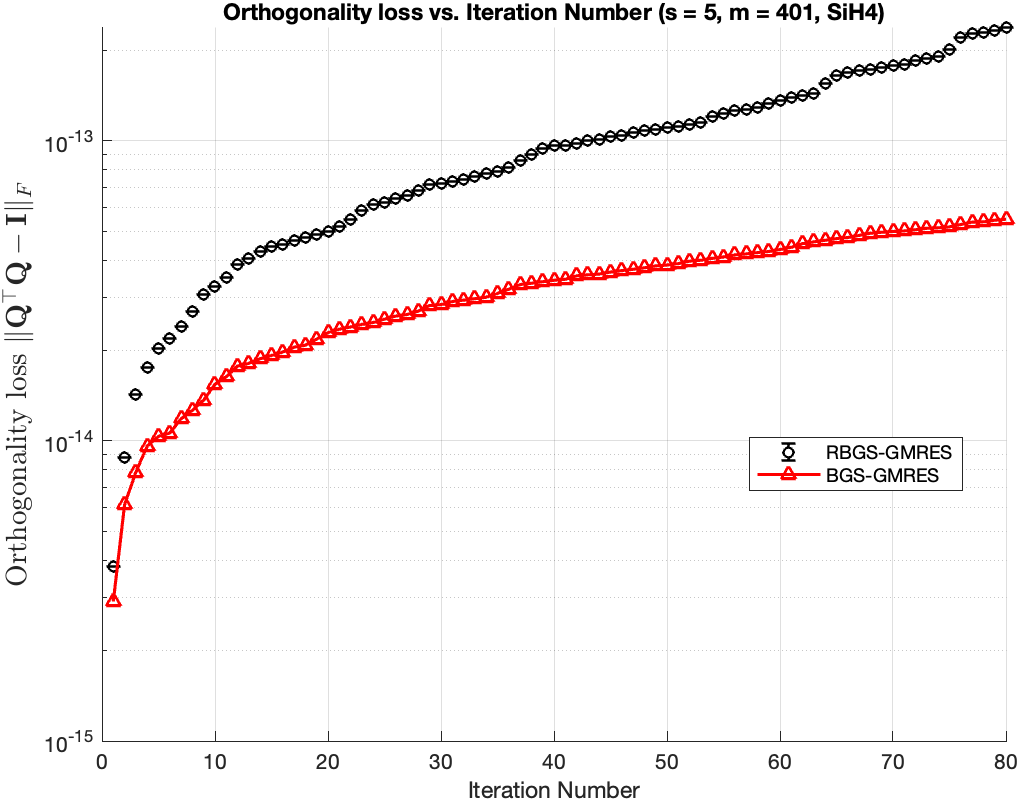
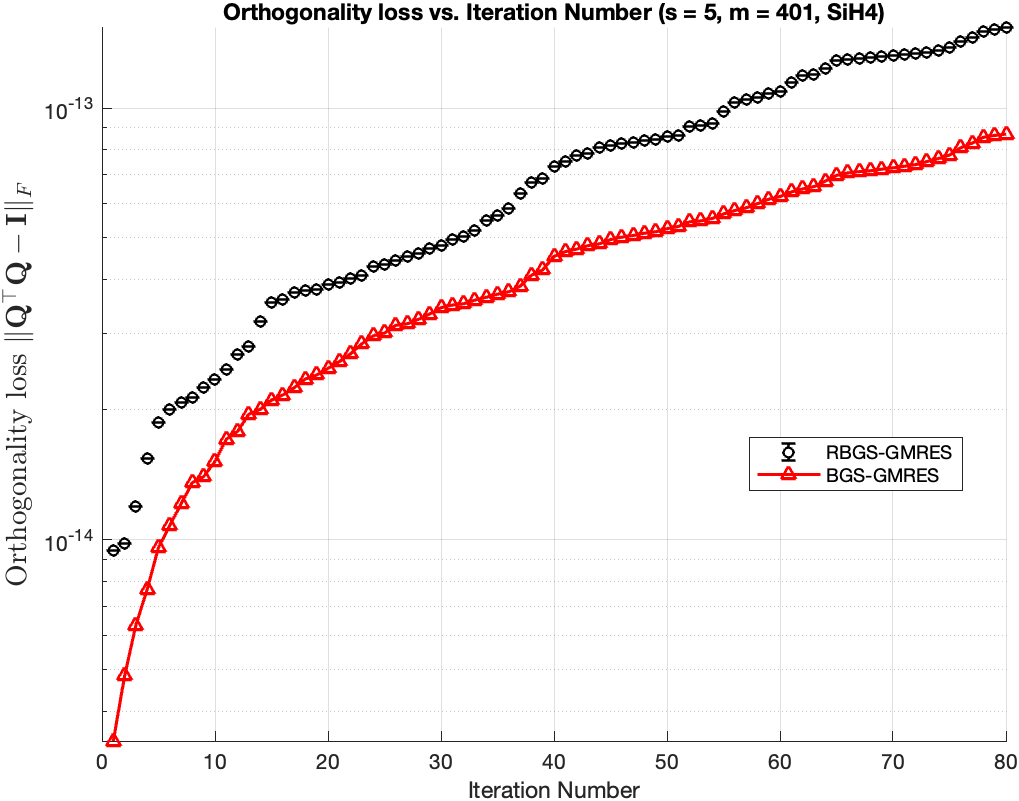
10.28

diff --git a/10.28 .md b/10.28 .md
@@ -11,13 +11,12 @@
 |------------|-------------|
 | Solver | RBGS-GMRES, BGS-GMRES, GMRES(built-in)|
 | Runs | 1 |
-| Matrices Tested | SiH4
+| Matrices Tested | SiH4, laeuchli
 |Krylov basis| Newton basis 
 |Orthogonalization of RBGS against other blocks| rCGS, rCGS2, RGS, rMGS
 |Orthogonalization of RBGS within a block| rCGS, rCGS2, RGS, rMGS, rWhitening
 |Orthogonalization of BGS against other blocks| CGS2
 |Orthogonalization of BGS within a block| Whitening2
-| Sketch Sizes | s = 5|
 | Metric | Relative residual, $ \left\lVert A*x - b \right\rVert / \left\lVert b \right\rVert$ |
 | Orthogonalization of RBGS in 10.14 .md | AOB: RGS2, WB: rWhitening2
 
@@ -31,31 +30,75 @@
 
 **Matrix info:** \( n = 5041 \)  
 **condition number:** \( 1.065536e+03 \)
-**step size** \( s = 5 \)  
-**Sketch info:** \( Gaussian, m = 501, d = 2 * m \)  
+**Sketch info:** \( Countsketch, m = 501, d = 2 * m \)  
 **Converge info:** \( ctol = 1e-16 \)  
 **Krylov basis:** \( newton basis \)
 
 #### ➤ Results for Step Sizes
 
-**relative residual and orthogonality**
-- AOB = rCGS2, WB = rWhitening, s = 5, m = 501 ![AOB = rCGS2, WB = rWhitening](fig/SiH4_relErr_iter_CI_s5_m501_AOB_rCGS2_WB_rWhitening_newton.png) ![orthogonality](fig/SiH4_orthErr_s5m501_AOB_rCGS2_WB_rWhitening_newton.png)
 
-- AOB = rCGS2, WB = rWhitening, s = 50, m = 1001 ![AOB = rCGS2, WB = rWhitening](fig/SiH4_relErr_iter_CI_s50_m1001_AOB_rCGS2_WB_rWhitening_newton.png) ![orthogonality](fig/SiH4_orthErr_s50m1001_AOB_rCGS2_WB_rWhitening_newton.png)
-
-- AOB = rCGS2, WB = rWhitening, s = 50, m = 3001 ![AOB = rCGS2, WB = rWhitening](fig/SiH4_relErr_iter_CI_s50_m3001_AOB_rCGS2_WB_rWhitening_newton.png) ![orthogonality](fig/SiH4_orthErr_s50m3001_AOB_rCGS2_WB_rWhitening_newton.png)
-
-- AOB = rCGS2, WB = rWhitening, s = 100, m = 3001 ![AOB = rCGS2, WB = rWhitening](fig/SiH4_relErr_iter_CI_s100_m3001_AOB_rCGS2_WB_rWhitening_newton.png) ![orthogonality](fig/SiH4_orthErr_s100m3001_AOB_rCGS2_WB_rWhitening_newton.png)
-
-- AOB = rCGS2, WB = rWhitening, s = 150, m = 3001 ![AOB = rCGS2, WB = rWhitening](fig/SiH4_relErr_iter_CI_s150_m3001_AOB_rCGS2_WB_rWhitening_newton.png) ![orthogonality](fig/SiH4_orthErr_s150m3001_AOB_rCGS2_WB_rWhitening_newton.png)
-
-- AOB = rCGS2, WB = rWhitening, s = 200, m = 3001 ![AOB = rCGS2, WB = rWhitening](fig/SiH4_relErr_iter_CI_s200_m3001_AOB_rCGS2_WB_rWhitening_newton.png) ![orthogonality](fig/SiH4_orthErr_s200m3001_AOB_rCGS2_WB_rWhitening_newton.png)
-
-- AOB = rCGS2, WB = rWhitening, s = 250, m = 3001 ![AOB = rCGS2, WB = rWhitening](fig/SiH4_relErr_iter_CI_s250_m3001_AOB_rCGS2_WB_rWhitening_newton.png) ![orthogonality](fig/SiH4_orthErr_s250m3001_AOB_rCGS2_WB_rWhitening_newton.png)
-
+**Minimum Residual vs. s**
 - AOB = rCGS2, WB = rWhitening ![relative error vs s](fig/SiH4_minrelative_error_vs_s.png)
 
 **Discussion**
 - The selection of \( s \) depends on the performance aspect to be optimized.  
 For achieving a **minimal relative residual** (e.g., ≤ $ 1e-8 $), $ s \leq 20 $ is appropriate,  
 whereas for **avoiding communication**, the **optimal range** of $ s $ is likely between **100 and 240**.
+- It shows an order of magnitude difference in the minimum relative residual between RBGS and RGS when s is large enough
+
+
+
+**relative residual and orthogonality for different orthogonal methods when s=5**
+![AOB = rCGS2, WB = rWhitening](fig/SiH4_relErr_iter_CI_s5_m401_reorth_newton.png) ![orth](fig/SiH4_orthErr_s5_m401_reorth_newton.png)
+
+![AOB = rCGS2, WB = rWhitening](fig/SiH4_relErr_iter_CI_s10_m801_reorth_newton.png) ![orth](fig/SiH4_orthErr_s10_m801_reorth_newton.png)
+
+![AOB = rCGS2, WB = rWhitening](fig/SiH4_relErr_iter_CI_s15_m1201_reorth_newton.png) ![orth](fig/SiH4_orthErr_s15_m1201_reorth_newton.png)
+
+![AOB = rCGS2, WB = rWhitening](fig/SiH4_relErr_iter_CI_s20_m1601_reorth_newton.png) ![orth](fig/SiH4_orthErr_s20_m1601_reorth_newton.png)
+
+![AOB = rCGS2, WB = rWhitening](fig/SiH4_relErr_iter_CI_s50_m751_reorth_newton.png) ![orth](fig/SiH4_orthErr_s50_m751_reorth_newton.png)
+
+![AOB = rCGS2, WB = rWhitening](fig/SiH4_relErr_iter_CI_s100_m1501_reorth_newton.png) ![orth](fig/SiH4_orthErr_s100_m1501_reorth_newton.png)
+
+![AOB = rCGS2, WB = rWhitening](fig/SiH4_relErr_iter_CI_s150_m2251_reorth_newton.png) ![orth](fig/SiH4_orthErr_s150_m2251_reorth_newton.png)
+
+![AOB = rCGS2, WB = rWhitening](fig/SiH4_relErr_iter_CI_s200_m3001_reorth_newton.png) ![orth](fig/SiH4_orthErr_s200_m3001_reorth_newton.png)
+
+![AOB = rCGS2, WB = rWhitening](fig/SiH4_relErr_iter_CI_s220_m3301_reorth_newton.png) ![orth](fig/SiH4_orthErr_s220_m3301_reorth_newton.png)
+
+![AOB = rCGS2, WB = rWhitening](fig/SiH4_relErr_iter_CI_s250_m3751_reorth_newton.png) ![orth](fig/SiH4_orthErr_s250_m3751_reorth_newton.png)
+
+
+
+### 2.1 Laeuchli 
+
+**Matrix info:** \( n = 5000 \)  
+**condition number:** \( 5e+05 \) 
+**Sketch info:** \( CountSketch, m = 501, d = 2 * m \)  
+**Converge info:** \( ctol = 1e-16 \)  
+**Krylov basis:** \( newton basis \)
+
+#### ➤ Results for Step Sizes
+
+<!--**Minimum Residual vs. s**
+- AOB = rCGS2, WB = rWhitening ![relative error vs s](fig/laeuchli_minrelative_error_vs_s.png)-->
+
+**relative residual and orthogonality for different orthogonal methods**
+![AOB = rCGS2, WB = rWhitening](fig/laeuchli_relErr_iter_CI_s5_m401_reorth_newton.png) ![orth](fig/laeuchli_orthErr_s5_m401_reorth_newton.png)
+
+![AOB = rCGS2, WB = rWhitening](fig/laeuchli_relErr_iter_CI_s10_m801_reorth_newton.png) ![orth](fig/laeuchli_orthErr_s10_m801_reorth_newton.png)
+
+![AOB = rCGS2, WB = rWhitening](fig/laeuchli_relErr_iter_CI_s20_m1601_reorth_newton.png) ![orth](fig/laeuchli_orthErr_s20_m1601_reorth_newton.png)
+
+![AOB = rCGS2, WB = rWhitening](fig/laeuchli_relErr_iter_CI_s50_m751_reorth_newton.png) ![orth](fig/laeuchli_orthErr_s50_m751_reorth_newton.png)
+
+![AOB = rCGS2, WB = rWhitening](fig/laeuchli_relErr_iter_CI_s100_m1501_reorth_newton.png) ![orth](fig/laeuchli_orthErr_s100_m1501_reorth_newton.png)
+
+![AOB = rCGS2, WB = rWhitening](fig/laeuchli_relErr_iter_CI_s150_m2251_reorth_newton.png) ![orth](fig/laeuchli_orthErr_s150_m2251_reorth_newton.png)
+
+![AOB = rCGS2, WB = rWhitening](fig/laeuchli_relErr_iter_CI_s200_m3001_reorth_newton.png) ![orth](fig/laeuchli_orthErr_s200_m3001_reorth_newton.png)
+
+![AOB = rCGS2, WB = rWhitening](fig/laeuchli_relErr_iter_CI_s230_m3451_reorth_newton.png) ![orth](fig/laeuchli_orthErr_s230_m3451_reorth_newton.png)
+
+![AOB = rCGS2, WB = rWhitening](fig/laeuchli_relErr_iter_CI_s250_m3751_reorth_newton.png) ![orth](fig/laeuchli_orthErr_s250_m3751_reorth_newton.png)
